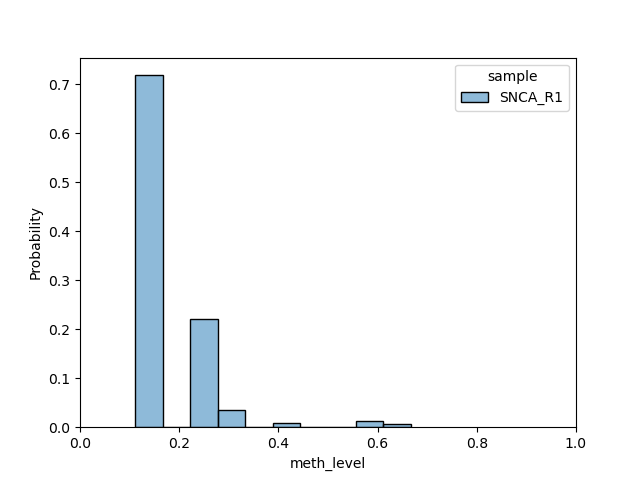
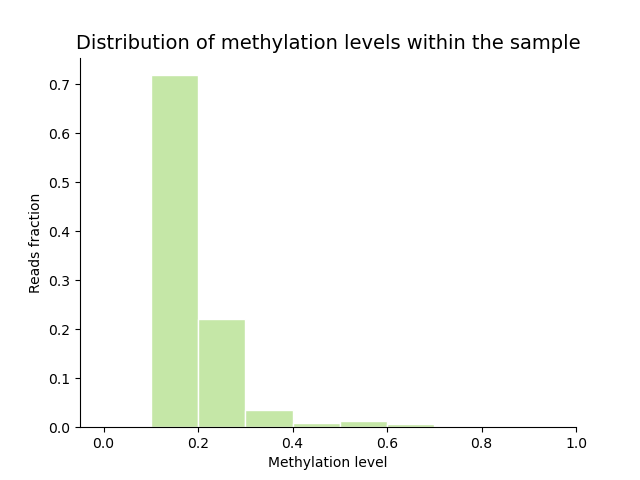
generate histogram

diff --git a/utils/sam.py b/utils/sam.py
@@ -5,7 +5,7 @@ from utils.meth_data import MethFlags, MethylationData, OneSampleMethylationData
 def extract_meth(coordinates: list, samfiles: list, storage: MethylationData):
     """Extracts methylation patterns and methylation levels of individual reads from a list of sam files."""
     for s in samfiles:
-        meth = _get_meth_sam(coordinates=coordinates, samfile=s)
+        meth = _get_meth_sam(coordinates, s)
         storage.add(meth)
 
 
@@ -69,49 +69,49 @@ def _calculate_meth_level(meth_pattern: list):
         return meth_pattern.count(MethFlags.methylated_motif_flag) / len(meth_pattern)
 
 
-def get_meth_sam2(coordinates: list, samfile: str):
-    """Extract methylation patterns and methylation levels of individual reads in a sam file."""
-    total_read_number = 0
-    all_meth_patterns = []
-    all_meth_levels = []
-    with open(samfile, "r") as fh:
-        for i in fh:
-            meth_pattern = _get_meth_pattern(coordinates, sequence=i.strip())
-            meth_level = _calculate_meth_level(meth_pattern)
-            if not meth_level:
-                continue
-            all_meth_patterns.append(meth_pattern)
-            all_meth_levels.append(meth_level)
-            total_read_number += 1
+# def get_meth_sam2(coordinates: list, samfile: str):
+#     """Extract methylation patterns and methylation levels of individual reads in a sam file."""
+#     total_read_number = 0
+#     all_meth_patterns = []
+#     all_meth_levels = []
+#     with open(samfile, "r") as fh:
+#         for i in fh:
+#             meth_pattern = _get_meth_pattern(coordinates, sequence=i.strip())
+#             meth_level = _calculate_meth_level(meth_pattern)
+#             if not meth_level:
+#                 continue
+#             all_meth_patterns.append(meth_pattern)
+#             all_meth_levels.append(meth_level)
+#             total_read_number += 1
 
-    return total_read_number, all_meth_patterns, all_meth_levels
+#     return total_read_number, all_meth_patterns, all_meth_levels
 
 
-def get_meth_sam3(coordinates: list, samfile: str):
-    """Extracts methylation patterns and methylation levels of individual reads in a sam file.
+# def get_meth_sam3(coordinates: list, samfile: str):
+#     """Extracts methylation patterns and methylation levels of individual reads in a sam file.
 
-    Returns
-    -------
-    total_read_number: int
-    all_meth_patterns: list
-    all_meth_levels: list
-    """
-    total_read_number = 0
-    all_meth_patterns = []
-    all_meth_levels = []
-    df = pd.DataFrame()
-    with open(samfile, "r") as fh:
-        for i in fh:
-            meth_pattern = _get_meth_pattern(
-                coordinates, sequence=i.strip().split("\t")[9]
-            )
-            meth_level = _calculate_meth_level(meth_pattern)
-            if not meth_level:
-                continue
-            all_meth_patterns.append(meth_pattern)
-            all_meth_levels.append(meth_level)
-            total_read_number += 1
-    df["meth_pattern"] = all_meth_patterns
-    df["meth_level"] = all_meth_levels
-    df["sample"] = samfile.strip(".sam")
-    return total_read_number, all_meth_patterns, all_meth_levels, df
+#     Returns
+#     -------
+#     total_read_number: int
+#     all_meth_patterns: list
+#     all_meth_levels: list
+#     """
+#     total_read_number = 0
+#     all_meth_patterns = []
+#     all_meth_levels = []
+#     df = pd.DataFrame()
+#     with open(samfile, "r") as fh:
+#         for i in fh:
+#             meth_pattern = _get_meth_pattern(
+#                 coordinates, sequence=i.strip().split("\t")[9]
+#             )
+#             meth_level = _calculate_meth_level(meth_pattern)
+#             if not meth_level:
+#                 continue
+#             all_meth_patterns.append(meth_pattern)
+#             all_meth_levels.append(meth_level)
+#             total_read_number += 1
+#     df["meth_pattern"] = all_meth_patterns
+#     df["meth_level"] = all_meth_levels
+#     df["sample"] = samfile.strip(".sam")
+#     return total_read_number, all_meth_patterns, all_meth_levels, df

diff --git a/utils/histogram.py b/utils/histogram.py
@@ -17,8 +17,8 @@ class SingleDataHistogramMaker:
     """
     def plot(self, methdata: MethylationData) -> None:
         for data in  methdata.data:
-            formated_data = _format_data_2_df(methdata=data)
-            _generate_histogram(data=formated_data)
+            formated_data = _format_data_2_df(data)
+            _generate_histogram(formated_data)
             plt.savefig(data.file_name.strip(".sam") + "_histogram.png")
 
 
@@ -26,9 +26,9 @@ class MultipleDataHistogramMaker:
     def plot(self, methdata: MethylationData) -> None:
         main_df = pd.DataFrame(columns=["meth_pattern", "meth_level", "sample"])
         for data in  methdata.data:
-            formated_data = _format_data_2_df(methdata=data)
+            formated_data = _format_data_2_df(data)
             main_df = pd.concat([main_df, formated_data], axis=0, ignore_index=True)
-        _generate_histogram_multiple_data(data=main_df)
+        _generate_histogram_multiple_data(main_df)
         plt.savefig("overlay_histogram.png")
 
 def make_histogram(methdata: MethylationData, hist_maker: HistogramMaker) -> None:
@@ -42,18 +42,30 @@ def _format_data_2_df(methdata: OneSampleMethylationData) -> pd.DataFrame:
     df["sample"] = methdata.file_name.strip(".sam")
     return df
 
-def _generate_histogram(data: pd.DataFrame, color="b"):
-    fig, ax = plt.subplots()
-    sns.color_palette()
-    sns.histplot(
-        data=data,
-        x="meth_level",
-        hue="sample",
-        bins=10,
+def _generate_histogram(data: pd.DataFrame):
+    plt.close("all")
+    palette = sns.color_palette("Paired") # ("Blues", 9)
+    ax = sns.histplot(data, x='meth_level',
         stat="probability",
-        ax=ax,
-    )
-    ax.set_xlim(0,1)
+        bins=10,
+        binrange=(0,1.),
+        color=palette[2],
+        edgecolor="white", # palette[3],
+        linewidth=1,
+        kde=False,
+        cbar=True,
+        # cbar_kws=dict(shrink=.75)
+        )
+    # ax.lines[0].set_color('crimson') # for kde=True
+    ax.set_xlim(-0.05,1)
+    ax.set_xlabel("Methylation level")
+    ax.set_ylabel("Reads fraction")
+    ax.set_title("Distribution of methylation levels within the sample", 
+        fontsize=14,
+        color="black", # palette[3]
+        fontweight="normal", #'normal' | 'bold' | 'heavy' | 'light' | 'ultrabold' | 'ultralight'
+        )
+    sns.despine()
     return ax
 
 def _generate_histogram_multiple_data(data: pd.DataFrame):
@@ -70,45 +82,3 @@ def _generate_histogram_multiple_data(data: pd.DataFrame):
     )
     ax.set_xlim(0,1)
     return ax
-
-
-# def generate_histogram(data, color="b"):
-#     fig, ax = plt.subplots()
-#     sns.set_theme(style="ticks")
-#     sns.color_palette("Paired")
-#     sns.histplot(data=data, stat="probability", bins=10, color=color, ax=ax)
-#     ax.set_xlim(0,1)
-#     # sns.despine()
-
-
-# def generate_histogram_kde(data, color="0.8"):
-#     ax = sns.histplot(
-#         data=data,
-#         stat="probability",
-#         bins=10,
-#         kde=True,
-#         color=color,
-#         kde_kws={"bw_adjust": 2},
-#     )
-#     ax.lines[0].set_color("crimson")
-#     # sns.despine()
-
-
-# def generate_histogram_2sets(data):
-#     # sns.set_theme(style="ticks")
-#     # sns.color_palette("Paired")
-#     fig, ax = plt.subplots()
-#     sns.color_palette()
-#     sns.histplot(
-#         data=data,
-#         x="meth_level",
-#         hue="sample",
-#         bins=10,
-#         stat="probability",
-#         common_norm=False,
-#         # multiple="stack",
-#         # kde=True,
-#         ax=ax,
-#     )
-#     ax.set_xlim(0,1)
-

diff --git a/allelicMeth.py b/allelicMeth.py
@@ -7,7 +7,7 @@ import matplotlib.pyplot as plt
 from utils.fasta import get_coordinates
 from utils.heatmap import SimpleHeatmapMaker, make_heatmap
 from utils.histogram import MultipleDataHistogramMaker, SingleDataHistogramMaker, make_histogram
-from utils.meth_data import MethylationData, OneSampleMethylationData
+from utils.meth_data import MethylationData
 from utils.sam import extract_meth
 from utils.save import WriteMethlation2CSV, save_data
 
